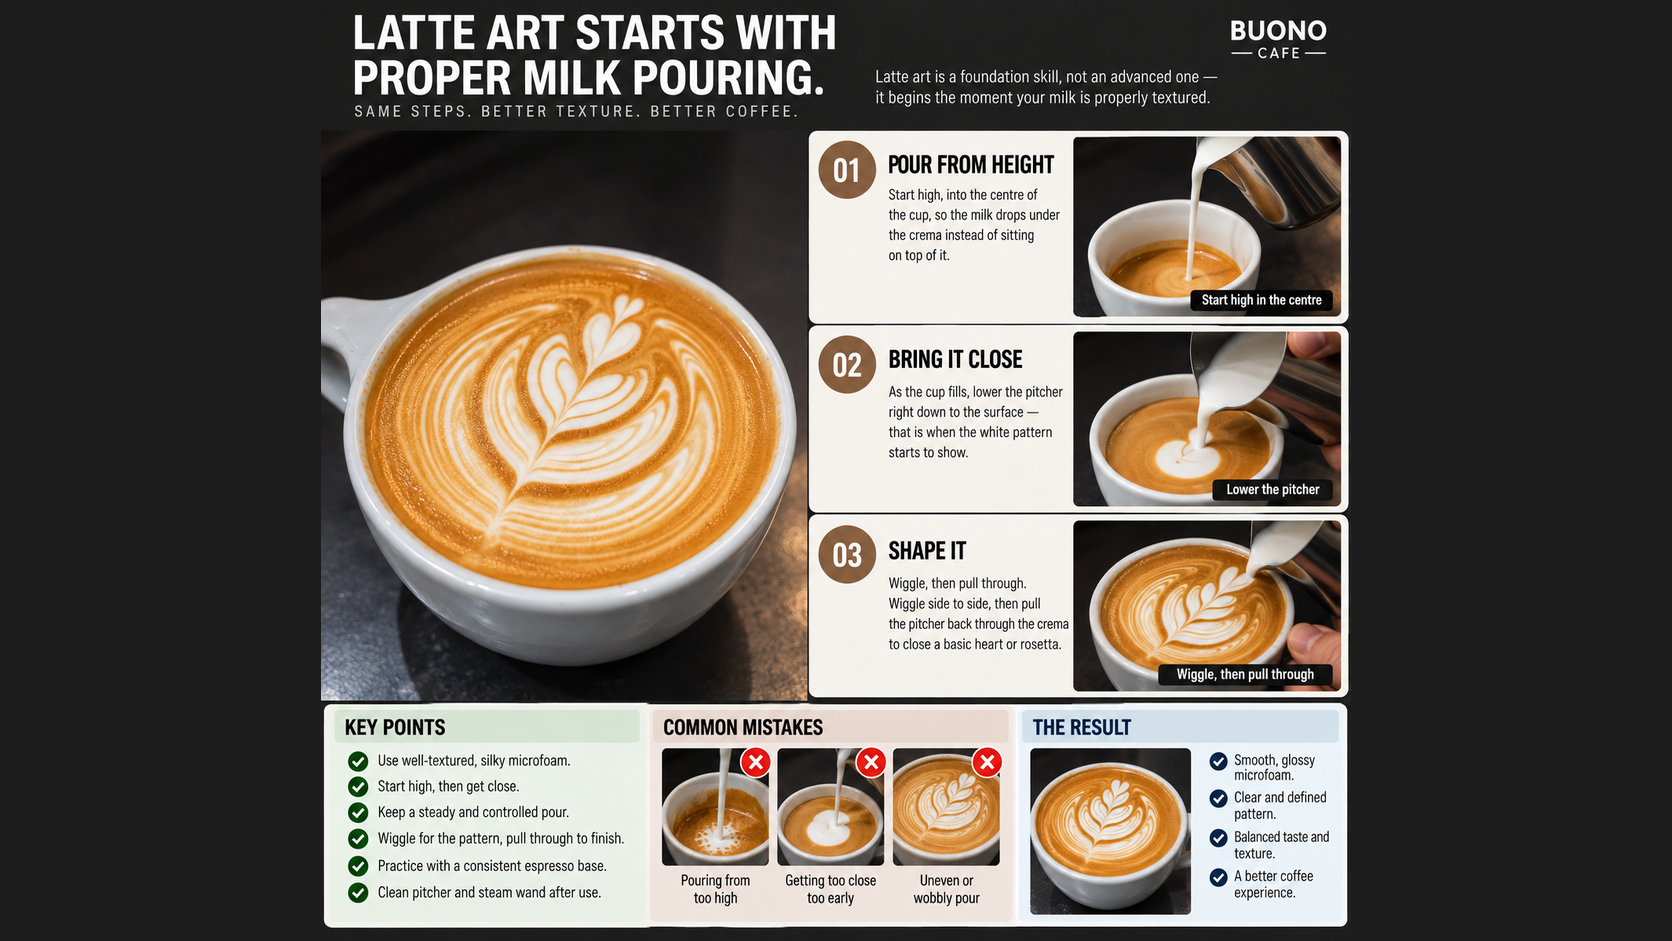
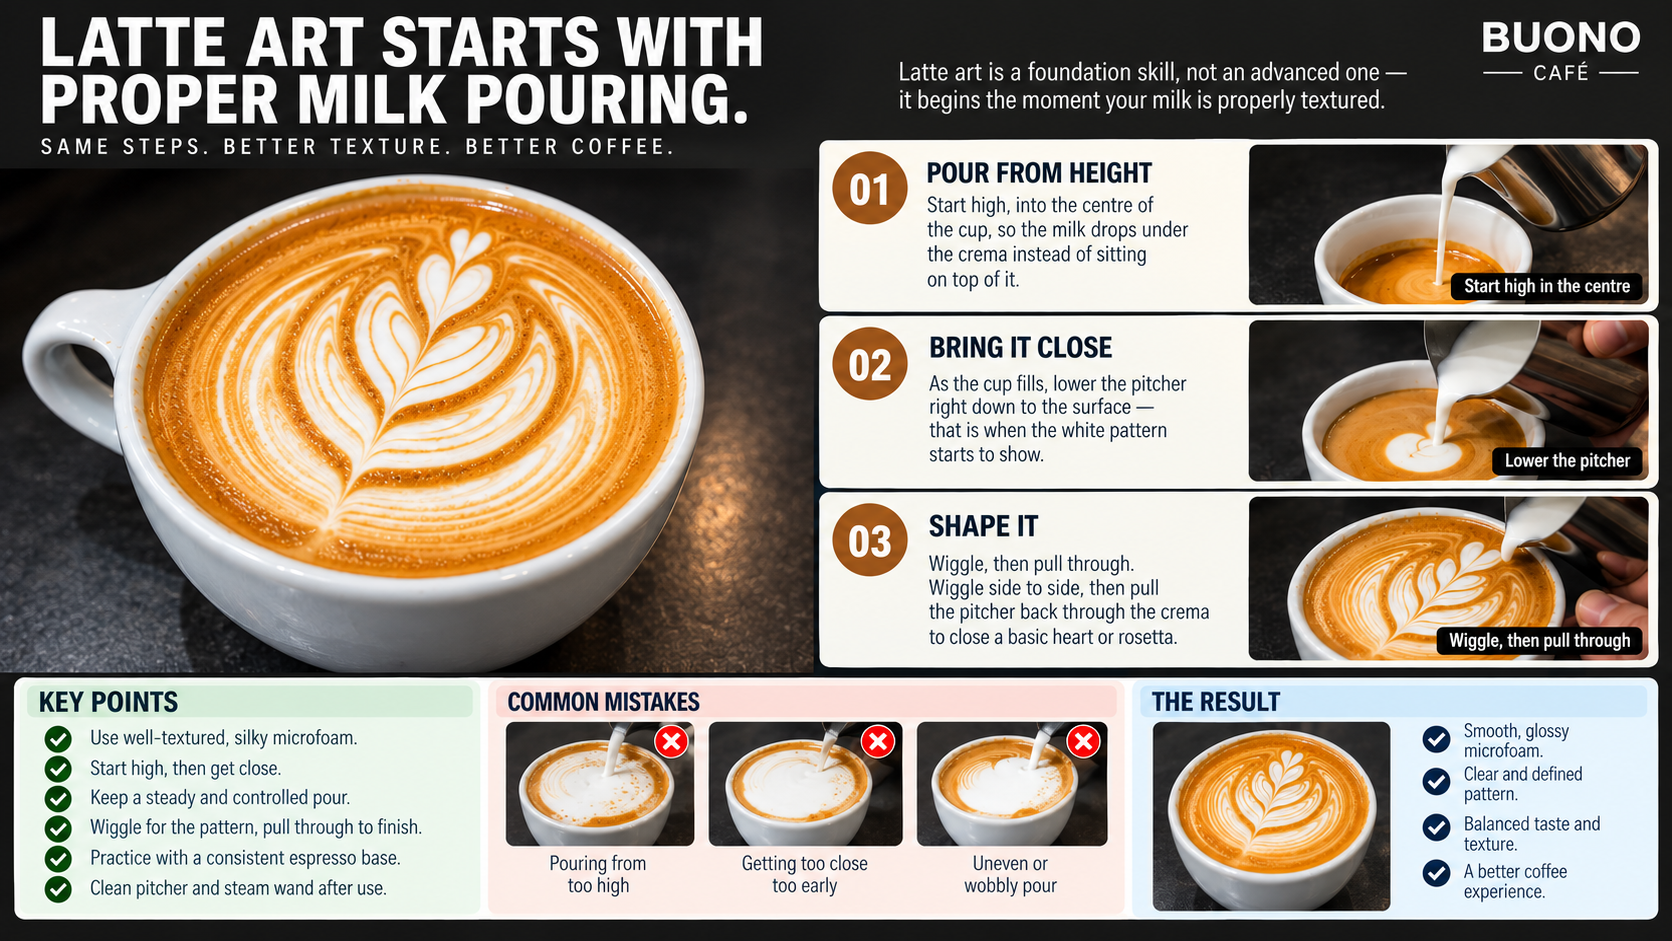
Swap in Praveen's redesigned posters for 4 more slides
- Module 5: replace img-053/054 (milk pouring, golden ring) with
  Praveen's proper 16:9 redesigns, replacing the earlier padded
  placeholders
- Module 1: replace the "Arabica vs Robusta, side by side" slide
  with Praveen's full poster (img-056)
- Module 7: replace the "A place for everything on the bar" slide
  with Praveen's full poster (img-055)

Drops the now-unused img-007.jpg and img-045.jpg. The Module 1 slide
had a single small (-3px/-14px) Edit Mode nudge on one element,
imperceptible and not worth carrying forward given the slide is
fully replaced.

diff --git a/bca-foundation/index.html b/bca-foundation/index.html
@@ -942,26 +942,8 @@
     </div>`);
 
   slide(1, `
-    <div class="slide">
-      <div class="kicker"><span class="num">01</span><span class="sep">/</span><span>Introduction to Coffee</span><span class="of">&middot; 5 of 12</span></div>
-      <div class="content wide">
-        <h2 class="title" style="margin-bottom:1rem;">Arabica vs Robusta, side by side.</h2>
-        <div class="ar-ro-layout">
-          <div class="ar-ro-side" style="--edx:-3px; --edy:-14px; font-size:20px; width:326px; height:273px;">
-            <div class="ar-ro-fact" style="font-size:inherit;"><span class="eyebrow" style="font-size:inherit;">Altitude</span>800&ndash;2200m</div>
-            <div class="ar-ro-fact" style="font-size:inherit;"><span class="eyebrow" style="font-size:inherit;">Climate</span>Cool</div>
-            <div class="ar-ro-fact" style="font-size:inherit;"><span class="eyebrow" style="font-size:inherit;">Bean Shape</span>Oval, curved centre cut</div>
-            <div class="ar-ro-fact" style="font-size:inherit;"><span class="eyebrow" style="font-size:inherit;">Flavour</span>Complex, fruity, floral, acidic</div>
-          </div>
-          <img class="photo-frame" style="width:100%; display:block;" src="assets/img/img-007.jpg" alt="Arabica and Robusta coffee plants, cherries and bean shapes compared">
-          <div class="ar-ro-side" style="font-size:20px; width:326px; height:273px;">
-            <div class="ar-ro-fact" style="font-size:inherit;"><span class="eyebrow" style="font-size:inherit;">Altitude</span>200&ndash;800m</div>
-            <div class="ar-ro-fact" style="font-size:inherit;"><span class="eyebrow" style="font-size:inherit;">Climate</span>Warm, humid</div>
-            <div class="ar-ro-fact" style="font-size:inherit;"><span class="eyebrow" style="font-size:inherit;">Bean Shape</span>Rounder, smaller, straight cut</div>
-            <div class="ar-ro-fact" style="font-size:inherit;"><span class="eyebrow" style="font-size:inherit;">Flavour</span>Bold, earthy, bitter, full-bodied</div>
-          </div>
-        </div>
-      </div>
+    <div class="slide" style="padding:0; background:#1c1c1c;">
+      <img src="assets/img/img-056.png" alt="Arabica vs Robusta side by side: altitude, climate, plant characteristics, bean shape, cup profile and major growing regions, plus a key differences table and green bean comparison" style="position:absolute; inset:0; width:100%; height:100%; object-fit:cover; display:block;">
     </div>`);
 
   slide(1, `
@@ -1606,19 +1588,8 @@
     </div>`);
 
   slide(7, `
-    <div class="slide">
-      <div class="kicker"><span class="num">07</span><span class="sep">/</span><span>Hygiene &amp; Safety</span><span class="of">&middot; 3 of 5</span></div>
-      <div class="content wide">
-        <h2 class="title" style="margin-bottom:1.4rem;">A place for everything on the bar.</h2>
-        <img class="tools-hero" style="height:220px;" src="assets/img/img-045.jpg" alt="An organized barista counter with cups, drip tray and tools each in their place">
-        <div class="bar-top">
-          <div class="zone z1">Cups &amp; saucers</div>
-          <div class="zone z2">Tamp &amp; grinder</div>
-          <div class="zone z3">Steam wand cloth</div>
-          <div class="zone z4">Chemicals</div>
-          <div class="zone z5">Clean spills as you go</div>
-        </div>
-      </div>
+    <div class="slide" style="padding:0; background:#1c1c1c;">
+      <img src="assets/img/img-055.png" alt="A place for everything on the bar: cups and saucers, grinder and tamping area, espresso machine, steam wand and cloth, chemicals and extras, plus cleaning cloths and a quick checklist" style="position:absolute; inset:0; width:100%; height:100%; object-fit:cover; display:block;">
     </div>`);
 
   slide(7, `
